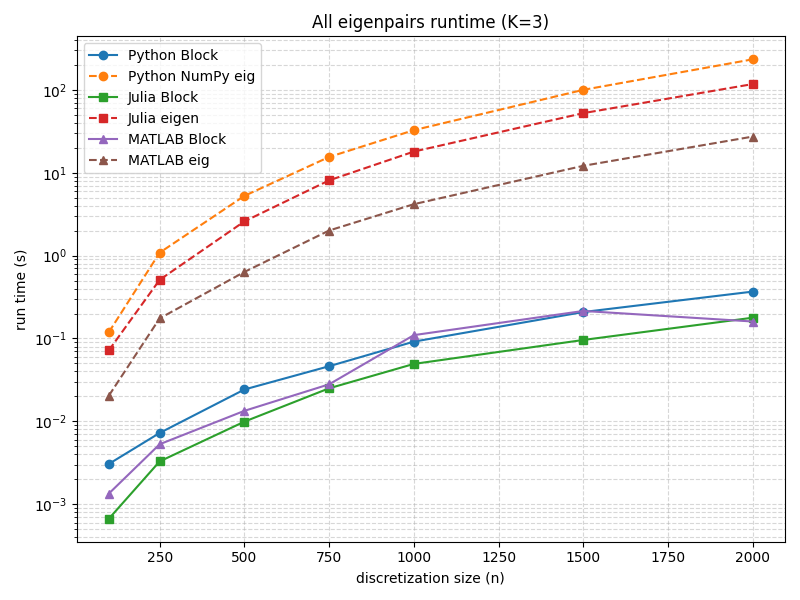
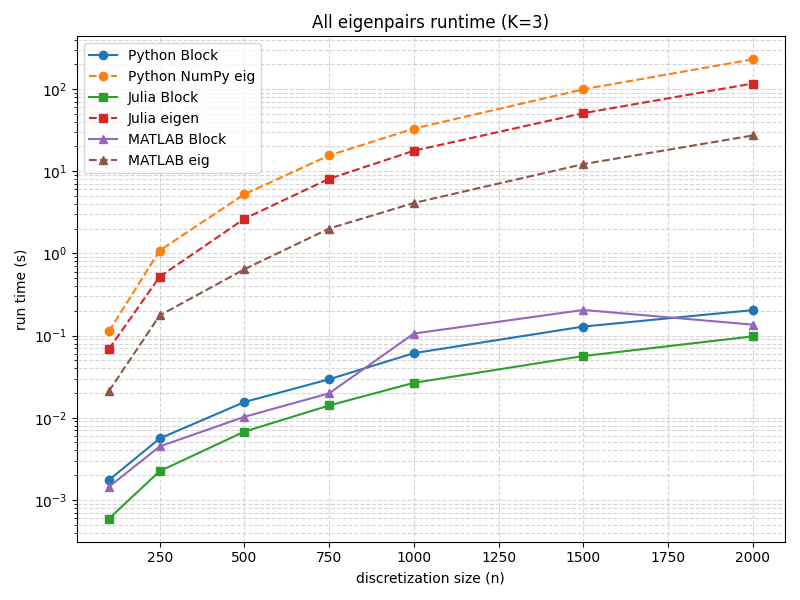
use timeit and change algorithm to achieve speedup

diff --git a/calc_slopes.py b/calc_slopes.py
@@ -1,36 +1,26 @@
 import pandas as pd
 import numpy as np
 import matplotlib.pyplot as plt
+from pathlib import Path
 
-df = pd.read_csv("python_timings.csv")
-n_vals = df.n 
-block = df.block_time
-dense = df.dense_time
+def calc_slopes(language: str, df_name: str):
+    df = pd.read_csv(df_name)
+    n_vals = df.n.to_numpy()
+    block_t = df.block_time.to_numpy()
+    dense_t = df.dense_time.to_numpy()
 
-# compute slope using log-log regression
-slope_block = np.cov(np.log(n_vals), np.log(block))[0, 1] / np.var(np.log(n_vals))
-slope_dense = np.cov(np.log(n_vals), np.log(dense))[0, 1] / np.var(np.log(n_vals))
+    block_slopes = np.diff(np.log(block_t)) / np.diff(np.log(n_vals))
+    dense_slopes = np.diff(np.log(dense_t)) / np.diff(np.log(n_vals))
 
-print(f"Block slope = {slope_block}")
-print(f"Dense slope = {slope_dense}")
+    print(f"{language} block solver slopes between n values: {block_slopes}")
+    print(f"{language} dense solver slopes between n values: {dense_slopes}")
 
-# scatter plot with log-log scales
-plt.figure(figsize=(8,6))
-plt.scatter(n_vals, block, label="Block", marker='o')
-plt.scatter(n_vals, dense, label="Dense", marker='D')
+if __name__ == '__main__':
+    base_dir = Path(__file__).parent.parent
+    calc_slopes("Python", "python_timings.csv")
 
-# reference lines
-plt.plot(n_vals, n_vals * block[0]/n_vals[0], linestyle='--', label="O(n)")
-plt.plot(n_vals, n_vals**3 * dense[0]/n_vals[0]**3, linestyle='--', label="O(n^3)")
+    julia_csv = base_dir / "Fast-Eigenvalue-Computation-Julia" / "julia_timings.csv"
+    calc_slopes("Julia", julia_csv)
 
-plt.xscale('log')
-plt.yscale('log')
-plt.xlabel("n")
-plt.ylabel("Time (s)")
-plt.title("Scaling of Block vs Dense Eigensolvers")
-plt.grid(True, which='both', linestyle=':', linewidth=0.5)
-plt.legend()
-
-# save figure
-plt.savefig("scaling_plot.png", dpi=300)
-plt.show()
+    matlab_csv = base_dir / "fast_Jnlin_eigs" / "matlab_timings.csv"
+    calc_slopes("MATLAB", matlab_csv)

diff --git a/run_experiments.py b/run_experiments.py
@@ -1,9 +1,10 @@
 import pandas as pd
 import numpy as np
 
-from benchmark import time_block_method, time_numpy
+from benchmark import time_block_method, time_numpy, median_time
 from verify import verify_results
 from build import build_block_matrix
+from algorithm import eig_KxK_diagblocks
 
 N_VALUES = [100, 250, 500, 750, 1000, 1500, 2000]
 K_VAL = 3
@@ -28,6 +29,26 @@ def measure_runtime_and_verify() -> tuple[list[float], list[float], list[float]]
         # create the block-diagonal matrix
         M = build_block_matrix(K=K_VAL, n=n, seed=0)
 
+        # runtimes
+        block_t = median_time(lambda: eig_KxK_diagblocks(K_VAL, n, M))
+        eig_t = median_time(lambda: np.linalg.eig(M))
+
+        block_time.append(block_t)
+        eig_time.append(eig_t)
+
+        # need to call functions again to get eigenvalues and eigenvectors for correctness check
+        block_eigs, block_vecs = eig_KxK_diagblocks(K_VAL, n, M)
+        numpy_eigs, numpy_vecs = np.linalg.eig(M)
+
+        correct_check = verify_results(matrix=M, alg_eigs=block_eigs, alg_vecs=block_vecs, reg_eigs=numpy_eigs, 
+                               reg_vecs=numpy_vecs)
+        print(f"Eigenvalues match (top {correct_check.num_eigenvalues_compared}): {correct_check.eigenvalues_match}")
+        print(f"Maximum residual: {correct_check.max_residual:.2e}")
+        print(f"Mean residual: {correct_check.mean_residual:.2e}")
+
+        block_max_residuals.append(correct_check.max_residual)
+
+        """
         # list to hold run times, use to take average run time
         run_times_block = []
         run_times_eig = []
@@ -64,6 +85,7 @@ def measure_runtime_and_verify() -> tuple[list[float], list[float], list[float]]
         eig_time.append(avg_eig)
         # store max residual
         block_max_residuals.append(max_res_block)
+        """
     
     return block_time, eig_time, block_max_residuals
 

diff --git a/algorithm.py b/algorithm.py
@@ -25,12 +25,16 @@ def eig_KxK_diagblocks(K: int, n: int, matrix: npt.NDArray) -> tuple[npt.NDArray
     eigs = np.zeros(K * n, dtype=complex)
     # hold eigenvectors
     vecs = np.zeros(shape=(K * n, K * n), dtype=complex)
+
+    M_l = np.zeros(shape=(K, K), dtype=complex)
+    V = np.zeros(shape=(K * n, K), dtype=complex)
+
     # column counter
     col = 0
 
     # for each l = 1, ..., n
     for l in range(n):
-        M_l = np.zeros(shape=(K, K), dtype=complex)
+        # fill M_l
         for i in range(K):
             for j in range(K):
                 M_l[i, j] = matrix[i * n + l, j * n + l]
@@ -38,7 +42,8 @@ def eig_KxK_diagblocks(K: int, n: int, matrix: npt.NDArray) -> tuple[npt.NDArray
         eigvals, eigvecs = np.linalg.eig(M_l)
 
         eigs[col:col + K] = eigvals
-        V = np.zeros(shape=(K * n, K), dtype=complex)
+        V.fill(0)
+        
         for i in range(K):
             for j in range(K):
                 V[i * n + l, j] = eigvecs[i, j]

diff --git a/benchmark.py b/benchmark.py
@@ -1,9 +1,12 @@
 import time
+import timeit
 import numpy as np
 import numpy.typing as npt
 from typing import NamedTuple
 
 from algorithm import eig_KxK_diagblocks
+
+NUM_SAMPLES = 5
 
 class TimingResult(NamedTuple):
     eigenvalues: npt.NDArray
@@ -49,3 +52,14 @@ def time_numpy(M: npt.NDArray) -> TimingResult:
         eigenvectors=vecs,
         time=total_time
     )
+
+def median_time(func) -> float:
+    """
+    Docstring for median_time.
+    """
+    timer = timeit.Timer(func)
+    # automatically determine number of runs per sample
+    loops, _ = timer.autorange()
+    runs = timer.repeat(repeat=NUM_SAMPLES, number=loops)
+
+    return np.median(runs) / loops
